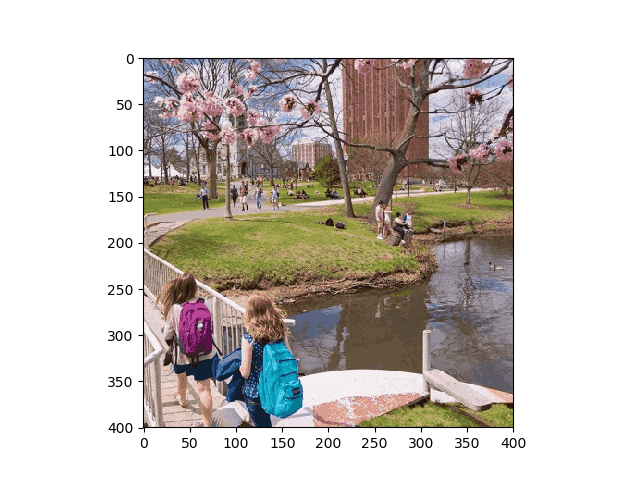
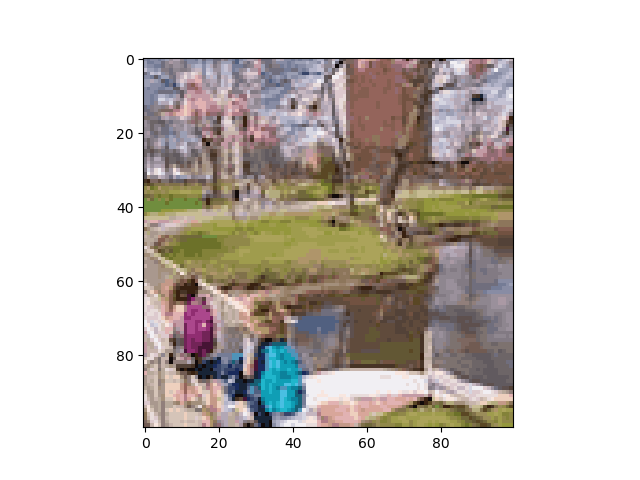
implemented hac

Changed region(s): [[0.1562, 0.125, 0.8438, 0.9375]]

diff --git a/Submission/Code/run_me.py b/Submission/Code/run_me.py
@@ -36,20 +36,31 @@ if __name__ == '__main__':
     print('Flattened image = ', flattened_image.shape)
 
     print('Implement AHC here ...')
-    for a in ['euclidean', 'l1', 'l2', 'manhattan', 'cosine' ]:
-        for l in ['ward', 'complete', 'average']:
-            if l == 'ward' and a != 'euclidean':
-                pass
-            else:
-                print(a, l)
-                hac = AgglomerativeClustering(affinity=a, linkage=l)
-                cluster_lables = hac.fit_predict(flattened_image)
-                mean_dict = compute_mean(flattened_image, cluster_lables)
-                for i in range(len(cluster_lables)):
-                    flattened_temp[i] = mean_dict[cluster_lables[i]]
-                reconstructed_image = flattened_temp.ravel().reshape(data_x.shape[0], data_x.shape[1], data_x.shape[2])
-                plt.imshow(reconstructed_image)
-                plt.show()
+    # for a in ['euclidean', 'l1', 'l2', 'manhattan', 'cosine' ]:
+    #     for l in ['ward', 'complete', 'average']:
+    #         if l == 'ward' and a != 'euclidean':
+    #             pass
+    #         else:
+    #             print(a, l)
+    #             hac = AgglomerativeClustering(affinity=a, linkage=l)
+    #             cluster_lables = hac.fit_predict(flattened_image)
+    #             mean_dict = compute_mean(flattened_image, cluster_lables)
+    #             for i in range(len(cluster_lables)):
+    #                 flattened_temp[i] = mean_dict[cluster_lables[i]]
+    #             reconstructed_image = flattened_temp.ravel().reshape(data_x.shape[0], data_x.shape[1], data_x.shape[2])
+    #             plt.imshow(reconstructed_image)
+    #             plt.show()
+
+    for c in [2, 5, 10, 25, 50, 75, 100, 200]:
+        print(c)
+        hac = AgglomerativeClustering(n_clusters=c)
+        cluster_lables = hac.fit_predict(flattened_image)
+        mean_dict = compute_mean(flattened_image, cluster_lables)
+        for i in range(len(cluster_lables)):
+            flattened_temp[i] = mean_dict[cluster_lables[i]]
+        reconstructed_image = flattened_temp.ravel().reshape(data_x.shape[0], data_x.shape[1], data_x.shape[2])
+        plt.imshow(reconstructed_image)
+        plt.show()
     # print('Implement k-means here ...')
     # for c in [2, 5, 10, 25, 50, 75, 100, 200]:
     #     kmeans = KMeans(n_clusters=c)
